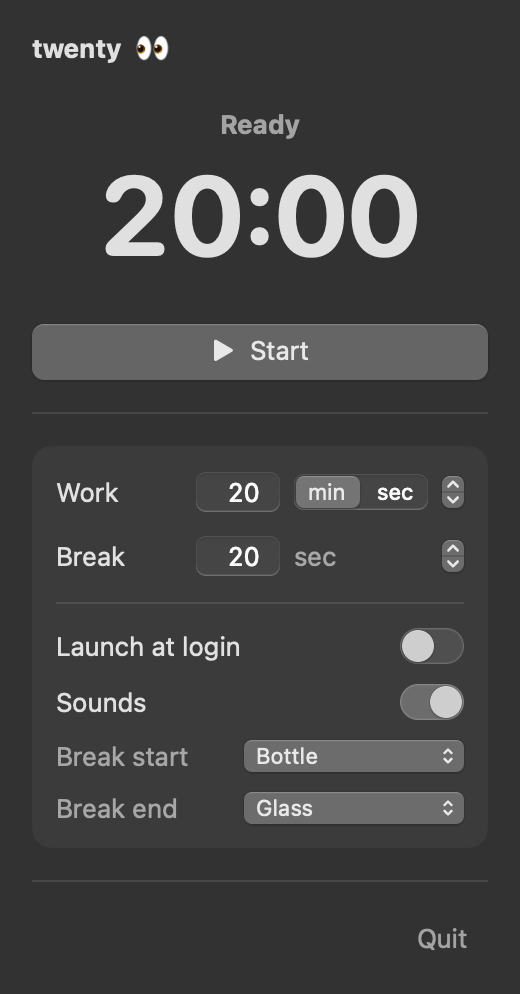
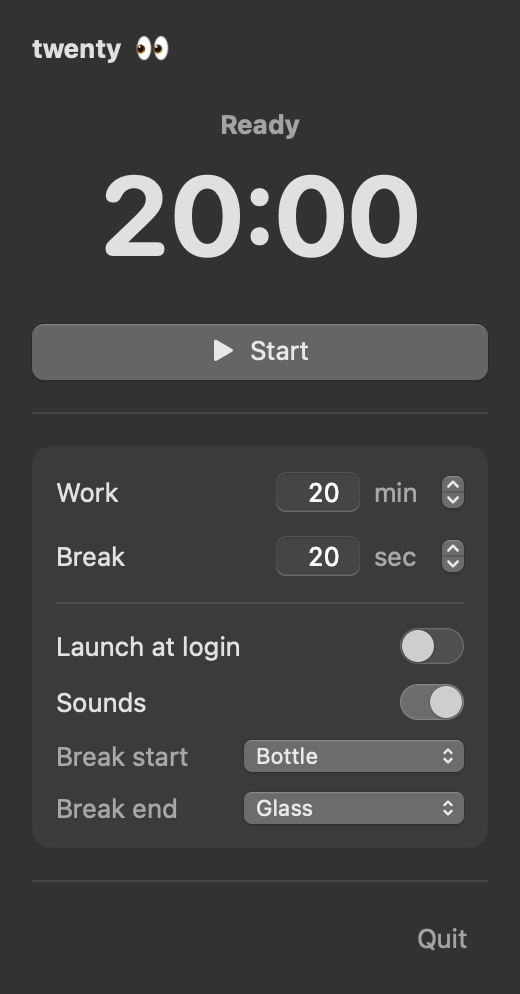
Keep Work duration in minutes only and update Mac screenshots

Changed region(s): [[0.5538, 0.4678, 0.8, 0.5926], [0.4308, 0.4678, 0.4923, 0.5926]]

diff --git a/Mac/twenty/twentyApp.swift b/Mac/twenty/twentyApp.swift
@@ -90,7 +90,13 @@ struct MenuContentView: View {
 
             // Settings
             VStack(spacing: 10) {
-                workDurationRow
+                durationRow(
+                    title: "Work",
+                    unit: "min",
+                    value: $timerManager.workDurationMinutes,
+                    range: 1...120,
+                    step: 1
+                )
 
                 durationRow(
                     title: "Break",
@@ -143,38 +149,6 @@ struct MenuContentView: View {
         .background(Color(nsColor: .windowBackgroundColor).opacity(0.75))
     }
 
-    private var workDurationRow: some View {
-        let valueBinding = timerManager.workUseSeconds
-            ? $timerManager.workDurationSeconds
-            : $timerManager.workDurationMinutes
-        let range: ClosedRange<Double> = timerManager.workUseSeconds ? 1...7200 : 1...120
-        let step: Double = timerManager.workUseSeconds ? 5 : 1
-
-        return HStack(spacing: 6) {
-            Text("Work")
-            Spacer()
-            TextField("", value: valueBinding, format: .number)
-                .textFieldStyle(.roundedBorder)
-                .frame(width: 44)
-                .multilineTextAlignment(.trailing)
-                .monospacedDigit()
-                .onSubmit {
-                    timerManager.clampSettings()
-                }
-            Picker("", selection: $timerManager.workUseSeconds) {
-                Text("min").tag(false)
-                Text("sec").tag(true)
-            }
-            .pickerStyle(.segmented)
-            .labelsHidden()
-            .controlSize(.small)
-            .frame(width: 68)
-            Stepper("", value: valueBinding, in: range, step: step)
-                .labelsHidden()
-                .controlSize(.small)
-        }
-    }
-
     private func durationRow(
         title: String,
         unit: String,
@@ -195,7 +169,7 @@ struct MenuContentView: View {
                 }
             Text(unit)
                 .foregroundStyle(.secondary)
-                .frame(width: 68, alignment: .leading)
+                .frame(width: 28, alignment: .leading)
             Stepper("", value: value, in: range, step: step)
                 .labelsHidden()
                 .controlSize(.small)

diff --git a/Mac/twenty/TimerManager.swift b/Mac/twenty/TimerManager.swift
@@ -28,8 +28,6 @@ class TimerManager: ObservableObject {
 
     // User settings (stored in UserDefaults for persistence)
     @AppStorage("workDurationMinutes") var workDurationMinutes: Double = 20
-    @AppStorage("workDurationSeconds") var workDurationSeconds: Double = 10
-    @AppStorage("workUseSeconds") var workUseSeconds: Bool = false
     @AppStorage("breakDurationSeconds") var breakDurationSeconds: Double = 20
     @AppStorage("soundEnabled") var soundEnabled: Bool = true
     @AppStorage("breakStartSound") var breakStartSound: String = "Bottle"
@@ -39,17 +37,11 @@ class TimerManager: ObservableObject {
     private var phaseEnd = Date()
 
     // Values are clamped so a bad setting can never give a zero or negative duration.
-    var workDuration: TimeInterval {
-        if workUseSeconds {
-            return min(max(workDurationSeconds, 1), 7200)
-        }
-        return min(max(workDurationMinutes, 1), 120) * 60
-    }
+    var workDuration: TimeInterval { min(max(workDurationMinutes, 1), 120) * 60 }
     var breakDuration: TimeInterval { min(max(breakDurationSeconds, 1), 300) }
 
     func clampSettings() {
         workDurationMinutes = min(max(workDurationMinutes.rounded(), 1), 120)
-        workDurationSeconds = min(max(workDurationSeconds.rounded(), 1), 7200)
         breakDurationSeconds = min(max(breakDurationSeconds.rounded(), 1), 300)
     }
 

diff --git a/README.md b/README.md
@@ -18,7 +18,7 @@ The Mac version is built with SwiftUI and lives in your menu bar.
 ### Features
 
 - **Break overlay on every monitor.** When a break starts, a full-screen countdown covers every connected display until the break finishes.
-- **Flexible durations.** Type or step **Work** (`min` or `sec`) and **Break** (`sec`) durations directly in the popover.
+- **Flexible durations.** Type or step **Work** (`min`) and **Break** (`sec`) durations directly in the popover.
 - **Launch at login.** Automatically starts the app and begins the work timer when you sign in.
 - **Custom sounds.** Toggle sounds on/off and pick separate macOS system sounds for break start and break end.
 
